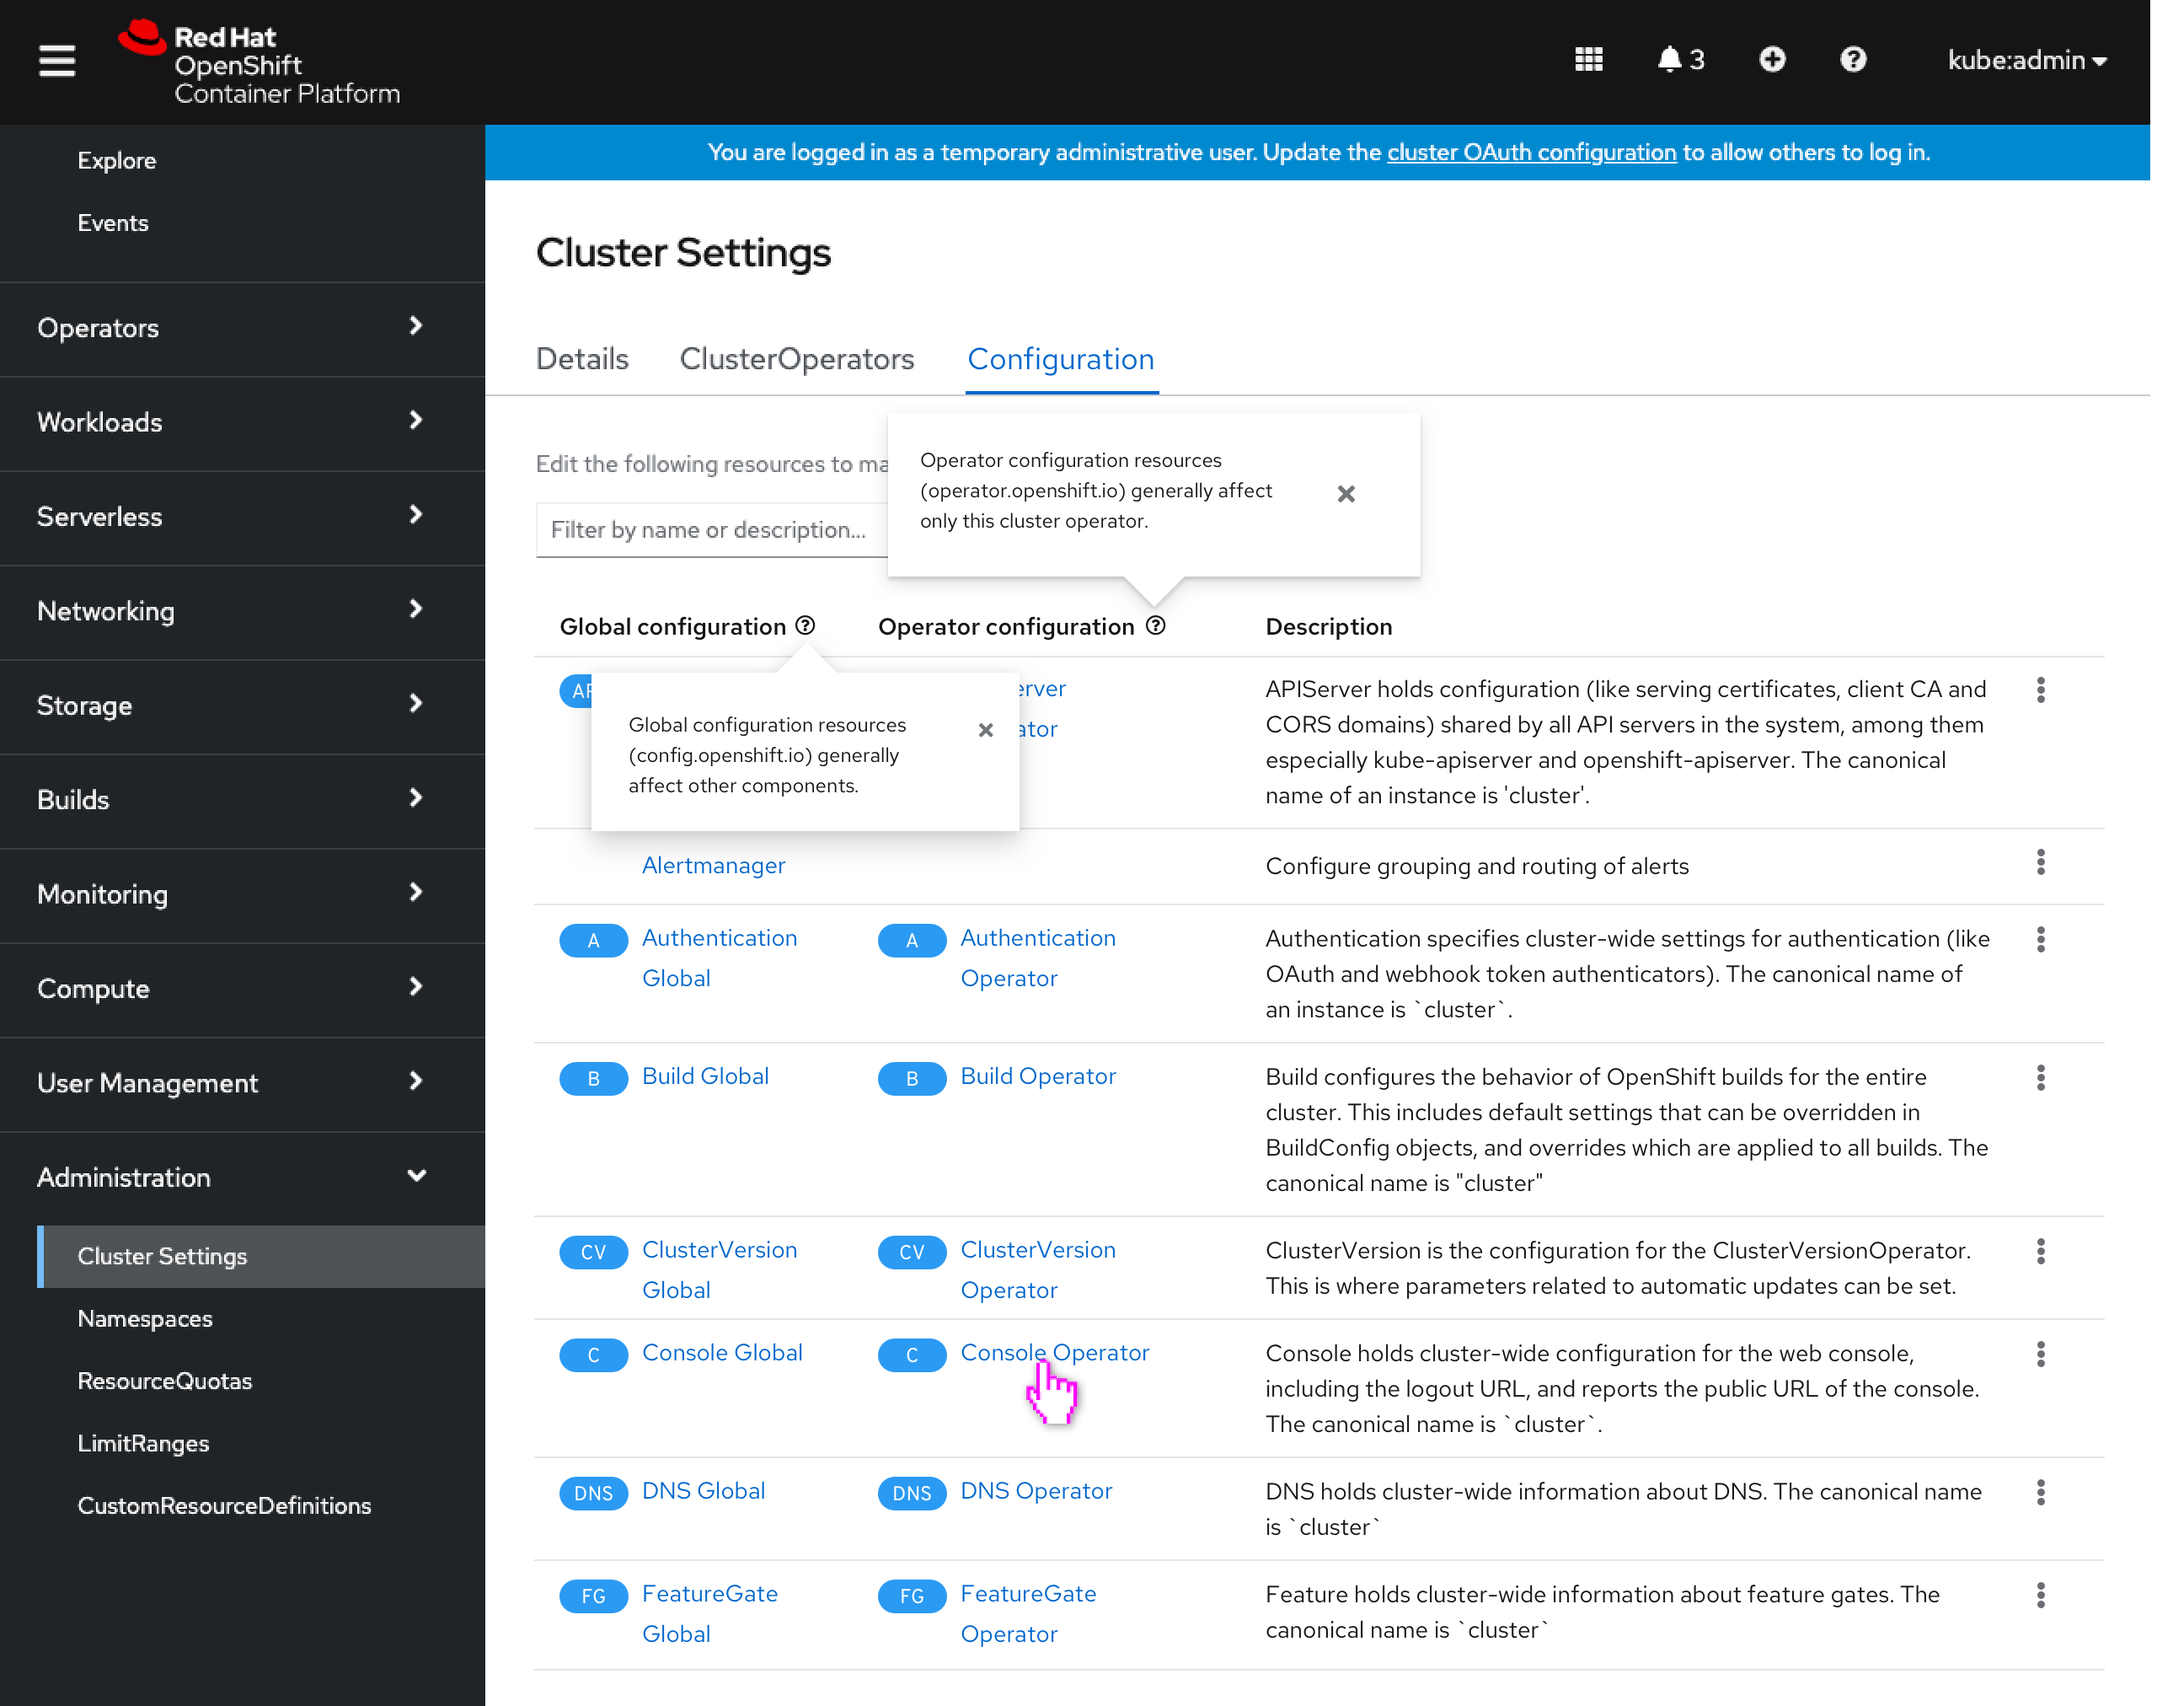
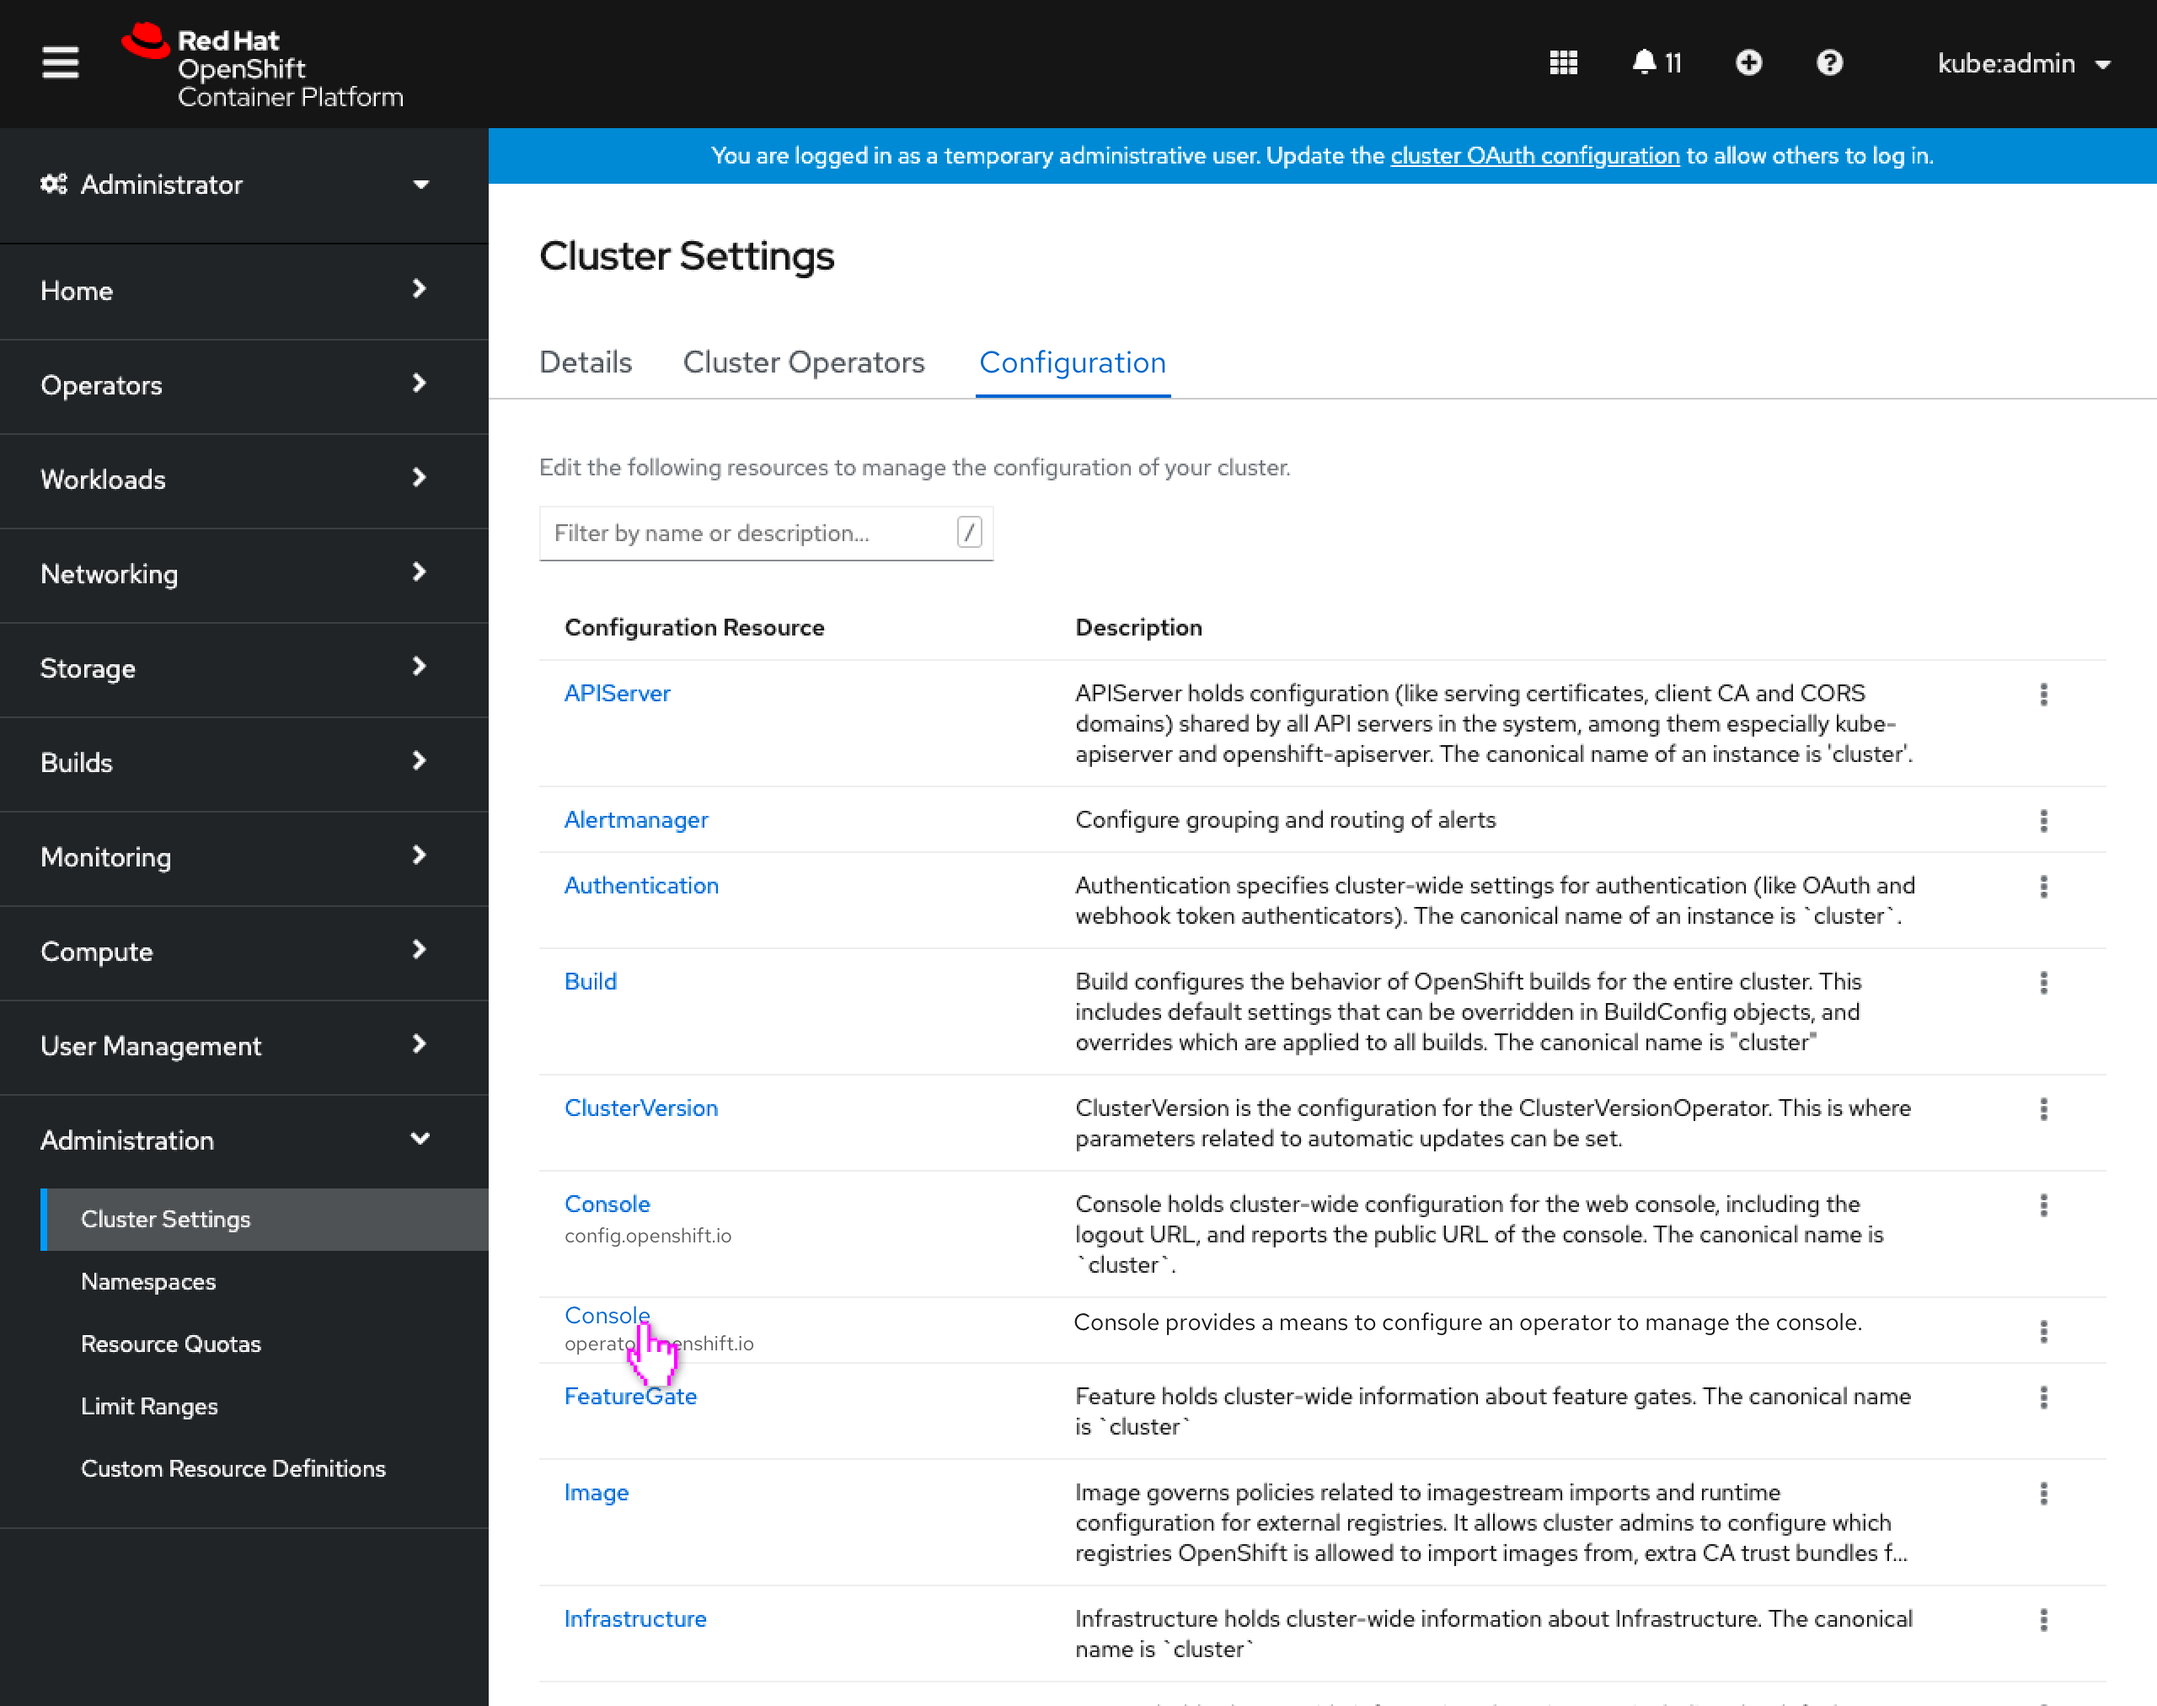
Update Configuration page to single column with both global and operator configs in one list

diff --git a/designs/administrator/olm/dynamic-plugin-cluster-settings/index.md b/designs/administrator/olm/dynamic-plugin-cluster-settings/index.md
@@ -11,16 +11,10 @@ When enabling or disabling a dynamic plugin, the user will need to be prompted t
 
 ## Enabling/disabling dynamic plugins from cluster settings
 
-![cluster settings configuration](img/1-0.png)
-- Because the enablement of dynamic plugins happens on the Console operator configuration resource Console [operator.openshift.io/v1], there will now be a way to access this resource in Cluster Settings (previously only global configuration resources Console [config.openshift.io/v1] were shown).
-- A new column will be added to the Configuration tab (formerly Global Configuration) that links to the equivalent operator configuration resource for each item (as available.)
-- Resources badges should be added to both columns to better convey that these are (different) resources.
-
-
 ![cluster settings configuration](img/1-1.png)
-- Column header help should be added to the two columns to help the user better understand what the purpose is for each resource.
-- Global popover text: Global configuration resources (config.openshift.io) generally affect other components.
-- Operator popover text: Operator configuration resources (operator.openshift.io) generally affect only this cluster operator.
+- Because the enablement of dynamic plugins happens on the Console operator configuration resource Console [operator.openshift.io/v1], there will now be a way to access this resource in Cluster Settings (previously only global configuration resources Console [config.openshift.io/v1] were shown).
+- All operator config resources will now also be shown in the Configuration tab (renamed from Global Configuration.)
+- Any resources that have both a operator and global configuration version will have the API displayed beneath the resource.
 
 ![console operator configuration resource details](img/1-2.png)
 - The Console operator configuration resource is shown.
